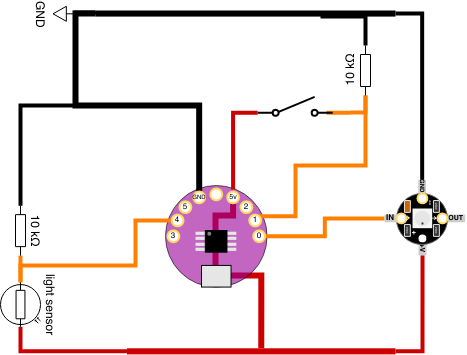
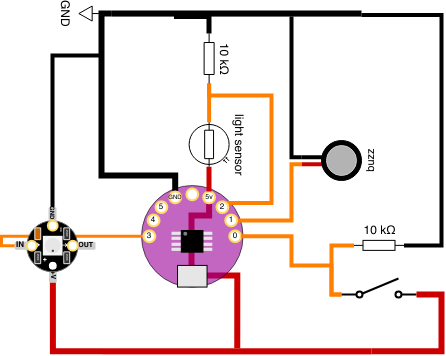
updates

Changed region(s): [[0.0, 0.0, 1.0, 1.0]]

diff --git a/Guide/guide.md b/Guide/guide.md
@@ -97,7 +97,7 @@ Try and understand the sequence of commands. Also try changing the number of mil
 
 Instead of outputting only ON and OFF, you can also use certain pins to output analog signals. Analog signals are non-binary and can vary smoothly between the two voltage extremes that the LilyTiny can handle (0-5V).
 
-The board generates analog signals using a technique called Pulse Width Modulation (PWM). Only pins 0, 1 and 4 are capable of PWM outputs.
+The board generates analog signals using a technique called Pulse Width Modulation (PWM). Only pins 0, 1 and 4 are capable of analog/PWM output.
 
 Now try uploading this sketch to your board. Keep the circuit the same. We are going to use pin 1 as an analog output instead of a digital output to make the LED fade smoothly from darkness to full brightness.
 
@@ -140,12 +140,12 @@ The board has a number of digital I/O pins as well as analog input and PWM outpu
 All the data pins for the LilyTiny85:
    All pins can be used as Digital input or digital output.
    Each pin also offers these additional functions:
-   Pin 0 → PWM0 (spi MOSI, i2c SDA)
-   Pin 1 → PWM1 (spi MISO)
-   Pin 2 → ANALOG INPUT (ADC1, spi SCLK, i2c SCL)
-   Pin 3 → ANALOG INPUT (ADC3, USB+)
-   Pin 4 → PWM4, ANALOG INPUT (ADC2, USB-)
-   Pin 5 → ANALOG INPUT (ADC0, RESET)
+   Pin 0 → PWM0 (analog output)
+   Pin 1 → PWM1 (analog output)
+   Pin 2 → ANALOG INPUT A1
+   Pin 3 → ANALOG INPUT A3, USB+
+   Pin 4 → PWM4 (analog output), ANALOG INPUT A2, USB-)
+   Pin 5 → ANALOG INPUT A0, RESET
 
 Additionally, the board has three power pins:
   GND -> Ground Reference Voltage
@@ -167,16 +167,16 @@ The ATTINY85 LilyPad is a sewable version of the DigiSpark ~ which is a developm
 </fig>
 
 The ATTINY85 is great because it's very inexpensive, runs on very low power and can be programmed using the Arduino software toolkit. However, the small size comes with some limitations. Some of the most notable limitations are:
-* PIN 5 is the RESET pin on the microcontroller. This means if you connect it to ground, it will reboot your program.
-* PIN 2 and PIN 3 are used by the USB connection. So if you use these pins in your circuit, you will be unable to reprogram the board using the USB connector.
+* PIN 5 is the RESET pin on the microcontroller. This means if you connect it to ground, it will reboot your program. In general we leave this pin alone.
+* PIN 3 and PIN 4 are used by the USB connection. So connecting certain types of circuit to these pins will make it impossible to reprogram the board using the USB connector.
 
-Because of these limitations, we're going to avoid using PIN 2, 3 and 5 for now. There are ways of using them, but we're not going to get into that during this workshop.
+Because of these limitations, we're going to try and avoid using PIN 3, 4 and especially 5 for now. There are ways of using them, but we're not going to get into that during this workshop.
 
 ## Digital Inputs
 
 <a href="https://www.kobakant.at/DIY/?p=838">All about pull-up resistors and voltage dividers on Kobakant's website.</a>
 
-Notice that the left side of the switch is connected to *TWO* other points: the left side of the resistor and PIN 4 of the LilyTiny board.
+Notice that the left side of the switch is connected to *TWO* other points: the left side of the resistor and PIN 0 of the LilyTiny board.
 
 <fig>
 <img src="./TINY85LILY_BUTTON_VIB.png">
@@ -184,16 +184,16 @@ Notice that the left side of the switch is connected to *TWO* other points: the 
 </fig>
 
 ```
-// CONTROL THE VIBRO MOTOR ON PIN 1 USING A BUTTON IN PIN 4
+// CONTROL THE VIBRO MOTOR ON PIN 1 USING A BUTTON/SWITCH IN PIN 0
 
 void setup() {
   pinMode(1, OUTPUT);
-  pinMode(4, INPUT);    // configure pin 4 to be a digital input
+  pinMode(0, INPUT);    // configure pin 0 to be a digital input
 }
 
 void loop() {
   int button_value = 0;
-  button_value = digitalRead(4);
+  button_value = digitalRead(0);
   digitalWrite(1, button_value);
   delay(10); // delay for stability
 }
@@ -211,7 +211,7 @@ Leave the vibro motor connected as it is and try building this circuit with the 
 
 ```
 #define VIB_PIN           1   // vib motor / PWM and built-in led
-#define AN_PIN            3   // one of the analog inputs
+#define AN_PIN            A1   // one of the analog inputs
 
 void setup() {  
   pinMode(VIB_PIN, OUTPUT);       // connect a vibro motor or LED
@@ -264,7 +264,7 @@ The neopixel needs some extra code. You need to import a special library to be a
 #include <Adafruit_NeoPixel.h>
 #import <math.h>
 
-#define PIX_PIN           0   // neopixel pin
+#define PIX_PIN           3   // neopixel pin
 #define NUM_PIXELS        1   // the number of neopixels attached, increase this if you chain a few of them together
 
 Adafruit_NeoPixel pixels = Adafruit_NeoPixel(NUM_PIXELS, PIX_PIN, NEO_RGB + NEO_KHZ800);
@@ -317,7 +317,7 @@ This sketch uses the same circuit, but introduces a new programming concept: the
 #include <Adafruit_NeoPixel.h>
 #import <math.h>
 
-#define PIX_PIN           0   // neopixel pin
+#define PIX_PIN           3   // neopixel pin
 #define NUM_PIXELS        1   // the number of neopixels attached, increase this if you chain a few of them together
 
 Adafruit_NeoPixel pixels = Adafruit_NeoPixel(NUM_PIXELS, PIX_PIN, NEO_RGB + NEO_KHZ800);
@@ -369,8 +369,8 @@ Use the LDR to control the blinking speed of the neopixel.
 ```
 #include <Adafruit_NeoPixel.h>
 
-#define PIX_PIN           0   // neopixel data pin
-#define AN_PIN            3   // analog sensor input pin
+#define PIX_PIN           3   // neopixel data pin
+#define AN_PIN            A1   // analog sensor input pin
 #define NUM_PIXELS        1   // number of neopixels attached
 
 Adafruit_NeoPixel pixels = Adafruit_NeoPixel(NUM_PIXELS, PIX_PIN, NEO_RGB + NEO_KHZ800);
@@ -411,11 +411,73 @@ void loop() {
 ```
 
 ## Big Circuit
+
+Everything connected together.
+
 <fig>
 <img src="./TINY85LILY_ALL_CIRCUIT.png">
 <figcaption></figcaption>
 </fig>
 
+```
+#include <Adafruit_NeoPixel.h>
+
+#define VIB_PIN       1
+#define SWITCH_PIN    0
+#define LDR_PIN       A1      // PIN 2, aka analog1
+#define PIXEL_PIN     3
+#define NUM_PIXELS    1       // number of neopixels attached
+
+Adafruit_NeoPixel pixels = Adafruit_NeoPixel(NUM_PIXELS, PIXEL_PIN, NEO_RGB + NEO_KHZ800);
+
+void setup() {  
+  pinMode(VIB_PIN, OUTPUT);
+  pinMode(SWITCH_PIN, INPUT);
+  pinMode(LDR_PIN, INPUT);
+  pixels.begin(); // initializes the neopixel data pin
+
+  // Do a little test of the Neopixel colors
+  pixels.setPixelColor(0, pixels.Color(255, 0, 0));
+  pixels.show();
+  delay(500);
+  pixels.setPixelColor(0, pixels.Color(0, 255, 0));
+  pixels.show();
+  delay(500);
+  pixels.setPixelColor(0, pixels.Color(0, 0, 255));
+  pixels.show();
+  delay(500);
+  pixels.setPixelColor(0, 0);
+  pixels.show();  
+  delay(500);
+}
+
+void loop() {
+  int analog_value, switch_value;
+  int red, green, blue;
+  analog_value = analogRead(LDR_PIN);
+  delay(5);
+  switch_value = digitalRead(SWITCH_PIN);
+  delay(5); // quick delay for stability
+
+  if(switch_value == 1) {
+    digitalWrite(VIB_PIN, 1);
+  } else {
+    digitalWrite(VIB_PIN, 0);     
+  }
+
+  // map red green blue values depending on light level
+  // analog input is somewhere between 380 (darkness) and 700 (bright light), but you can play with these values
+  // flipping the values reverses the mapping, so that 700 maps to 0 and 380 maps to 255
+  red = constrain(map(analog_value, 380, 700, 0, 255), 0, 255);    // red is on in full light and off in darkness
+  blue = constrain(map(analog_value, 700, 380, 0, 255), 0, 255);   // blue and green light up in darkness
+  green = constrain(map(analog_value, 700, 380, 0, 255), 0, 255);
+
+  pixels.setPixelColor(0, pixels.Color(red, blue, green));
+  pixels.show();
+
+  delay(20);
+}
+```
 
 
 ## Debugging
